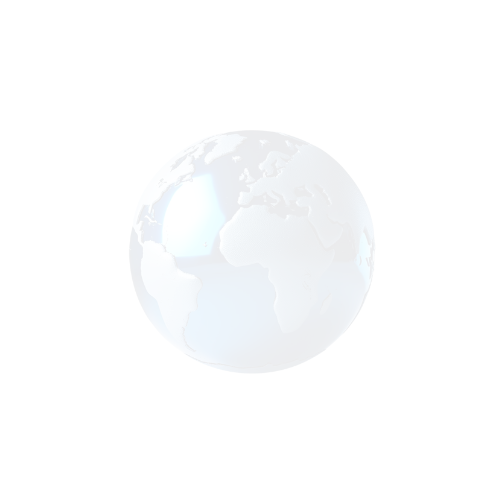
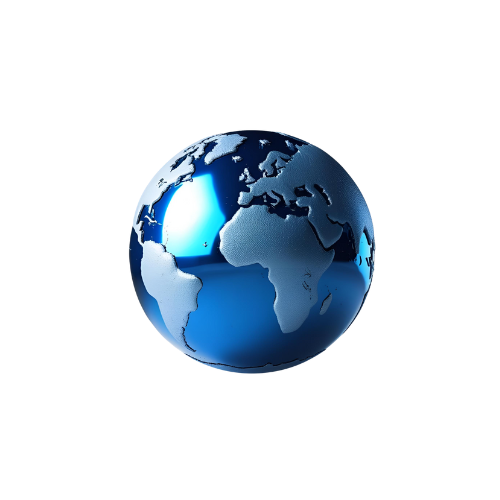
Change globe, fix 91,96

Changed region(s): [[0.24, 0.24, 0.75, 0.75]]

diff --git a/app/pages/normal/page49.tsx b/app/pages/normal/page49.tsx
@@ -207,7 +207,7 @@ export default function Page49() {
                             (PYP and MYP), and the Career‑related Programme (CP) is rarer still. Families may find themselves in situations where a school offers the
                             IB Diploma for Years 12 and 13 but uses another curriculum for earlier years.
                         </div>
-                        <YoutubeEmbed className="lg:-translate-y-[0.3dvw] md:-translate-y-[0.3dvw]" videoId="9wl1Pa05dM0" />
+                        <YoutubeEmbed className="lg:-translate-y-[0.3dvw] md:-translate-y-[0.3dvw]" videoId="6mRI6Mcp5hM" />
                         {/* <iframe
                             src="https://www.youtube.com/embed/M3aAaY7AiEc?autoplay=1&mute=1"
                             title="Vercel Ship Keynote: Introducing the frontend cloud"

diff --git a/app/pages/normal/page47.tsx b/app/pages/normal/page47.tsx
@@ -118,7 +118,7 @@ export default function Page47() {
                     </div>
                     <div className="" style={{ alignContent: "center" }}>
                         {/* <video className="aspect-[16/9]" src="/videos/Saigon Ed Guide landscape.mp4" style={{ width: "100%", margin: "auto" }} controls></video> */}
-                        <YoutubeEmbed className="lg:-translate-y-[0.3dvw] md:-translate-y-[0.3dvw]" videoId="9wl1Pa05dM0" />
+                        <YoutubeEmbed className="lg:-translate-y-[0.3dvw] md:-translate-y-[0.3dvw]" videoId="9LuuJa3t-m8" />
                     </div>
                 </div>
             </div>

diff --git a/app/signin/page.tsx b/app/signin/page.tsx
@@ -4,7 +4,7 @@ export default function SignInPage() {
   return (
     <div className="min-h-screen bg-black relative overflow-hidden">
       <div
-        className="absolute inset-0 bg-cover bg-center bg-no-repeat opacity-100"
+        className="absolute inset-0 bg-cover bg-center bg-no-repeat opacity-30"
         style={{ backgroundImage: "url(/images/ethereal-background.png)" }}
       />
       {/* Metallic Gradient Overlay */}
